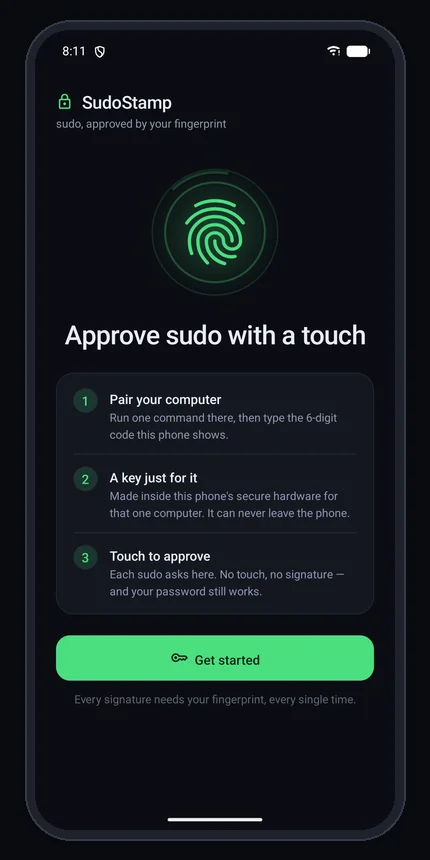
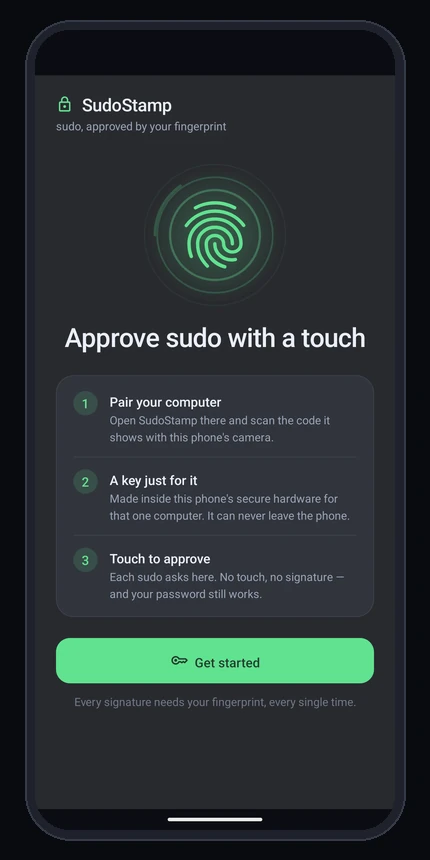
apps: SudoStamp 1.7, pairing by scanning a code
SudoStamp 1.7 pairs by QR code: the desktop app shows a code, the phone's camera opens it, one tap. The setup section leads with that (install the desktop app, Pair a phone, point the camera), with the terminal install kept for servers; a new 'Pair by scanning' shot; the first-run shot replaced by 1.7's (its first step now says to scan the computer's code). Screens from the same Pixel 7 emulator. The four shots sit 2x2 instead of three and an orphan. Claims match the repo's README and CHANGELOG. Verified: lint, typecheck, 910 tests, next build; rendered at 1440 and 412 and reviewed.

diff --git a/src/components/apps/SudoStampLanding.tsx b/src/components/apps/SudoStampLanding.tsx
@@ -88,6 +88,12 @@ const moreShots = [
     alt: "Onboarding: Approve sudo with a touch, three steps, Get started",
   },
   {
+    src: "pair-qr",
+    title: "Pair by scanning",
+    body: "The desktop app shows a code; the phone's camera opens it here. One tap, and the computer finds the phone. Nothing to type.",
+    alt: "The phone after scanning: Pair with edith? with a Pair button and Cancel",
+  },
+  {
     src: "ready",
     title: "Setup checklist",
     body: "Listener, notifications, battery and Do Not Disturb. It says Ready only when all pass.",
@@ -325,7 +331,7 @@ export default function SudoStampLanding({ app }: { app: PublicApp }) {
           <p className="mt-10 max-w-2xl text-sm text-[var(--muted)]">
             Android&apos;s fingerprint sheet is a secure window, so it never appears in screenshots. Screenshots from a Pixel 7 emulator.
           </p>
-          <ul className="mt-14 grid gap-4 md:grid-cols-3">
+          <ul className="mt-14 grid gap-4 md:grid-cols-2">
             {moreShots.map((s) => (
               <li key={s.src} className={`${CARD} flex items-start gap-5 p-5`}>
                 <PhoneShot
@@ -592,8 +598,13 @@ export default function SudoStampLanding({ app }: { app: PublicApp }) {
                   <h3 className="text-xl font-medium text-[var(--fg)]">On the computer</h3>
                 </div>
                 <p className="mt-4 text-pretty text-[15px] leading-relaxed text-[var(--muted)]">
-                  No clone needed. Download the installer and its signature, check the signature, and only then run it. The app shows
-                  the same lines, with a Copy button.
+                  <span className="text-[var(--fg)]">Easiest, on a Linux desktop:</span> install the desktop app (on Arch:{" "}
+                  <code className={`${CODE} whitespace-nowrap`}>yay -S sudostamp-desktop</code>, which brings the installer along), open SudoStamp, choose{" "}
+                  <span className="text-[var(--fg)]">Pair a phone</span> and point the phone&apos;s camera at the code it shows. Nothing to type.
+                </p>
+                <p className="mt-4 text-pretty text-[15px] leading-relaxed text-[var(--muted)]">
+                  From a terminal, or on a server: no clone needed. Download the installer and its signature, check the signature, and
+                  only then run it. The app shows the same lines, with a Copy button.
                 </p>
                 <div className="mt-5">
                   <CodeBlock code={SETUP} label="Linux" />
